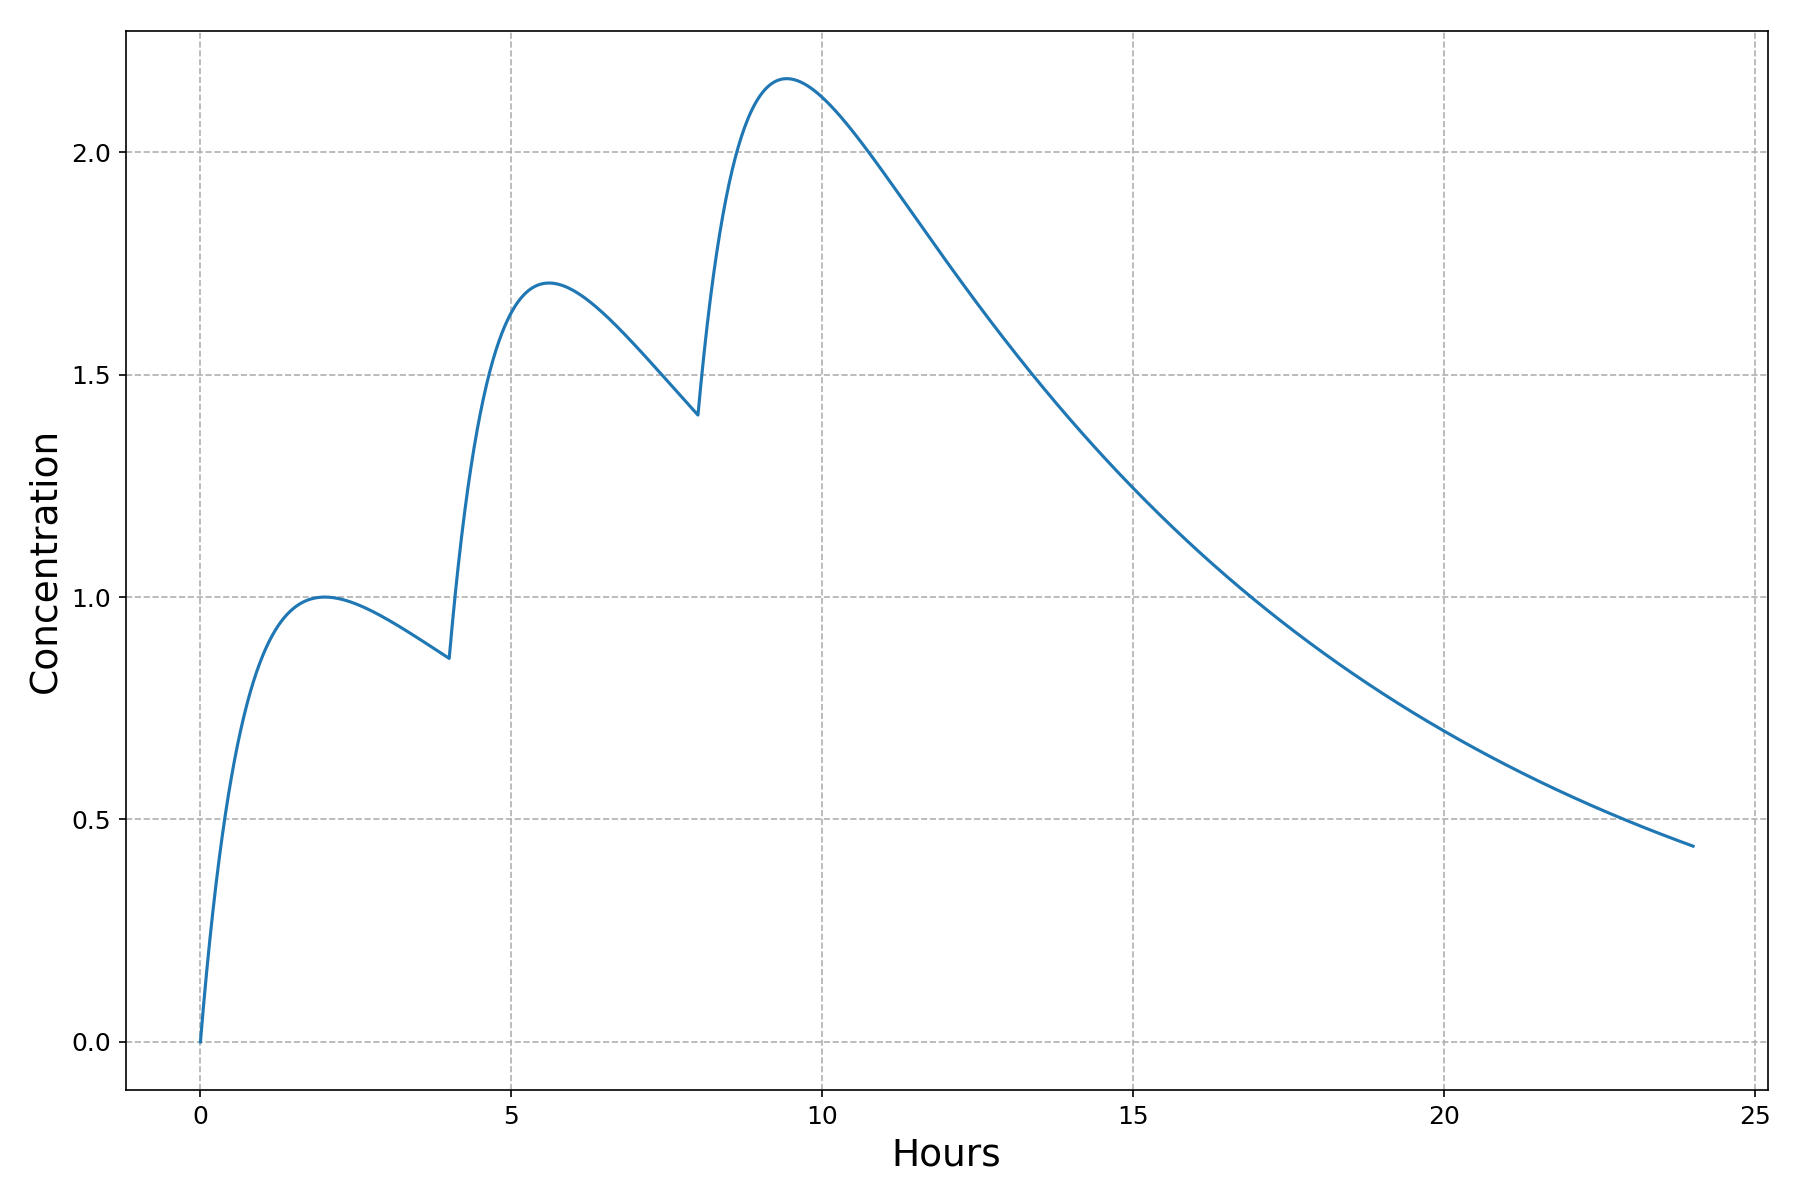
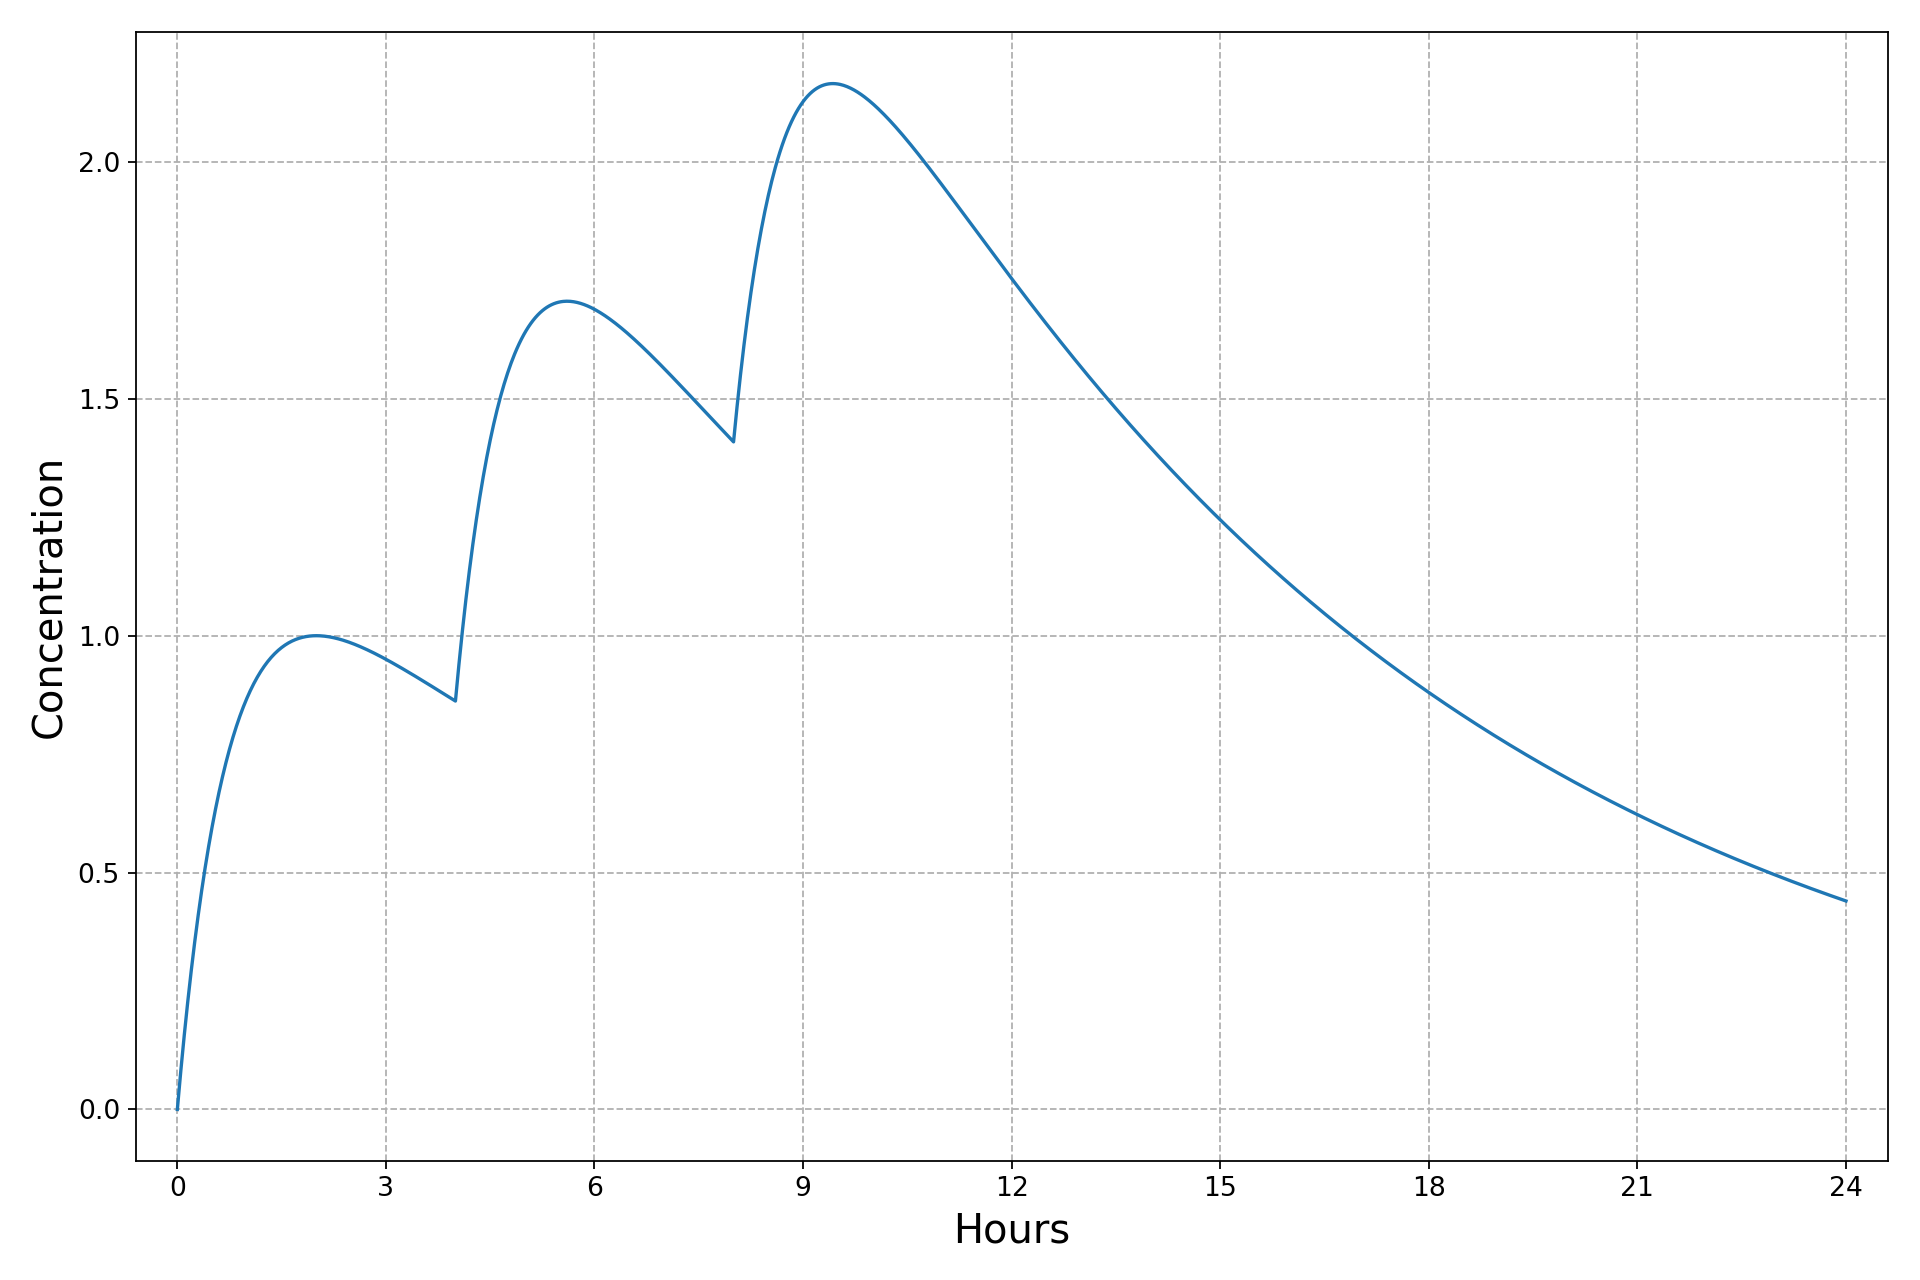
Increase quality of the plot's X axis

diff --git a/pk/cli.py b/pk/cli.py
@@ -41,10 +41,14 @@ def main():
     fig_width = args.output_size[0] / args.dpi
     fig_height = args.output_size[1] / args.dpi
     fig, ax = plt.subplots(figsize=(fig_width, fig_height), tight_layout=True)
+    ax.plot(x, y)
     ax.set_xlabel('Hours', fontsize=18)
     ax.set_ylabel('Concentration', fontsize=18)
     ax.grid(linestyle='--')
-    ax.plot(x, y)
+    hour_tick_steps = [1, 1.2, 1.6, 1.68, 2, 2.4, 3, 4, 4.8, 6, 8, 9.6, 10]
+    ax.xaxis.set_major_locator(plt.MaxNLocator(nbins='auto', integer=True, steps=hour_tick_steps))
+    ax.margins(0.025, 0.05)
+    ax.autoscale()
     fig.savefig(args.output, dpi=args.dpi)
 
 if __name__ == '__main__':

diff --git a/README.md b/README.md
@@ -12,7 +12,7 @@ Here, `pk` computes the concentration of a drug with a terminal half-life (t<sub
 pk --hl 6 --tmax 2 --doses 1 1 1 --offsets 0 4 8 --output demo.png
 ```
 
-<img src="demo.png" width="900" height="600">
+<img src="demo.png" width="960" height="640">
 
 Installation
 ------------
